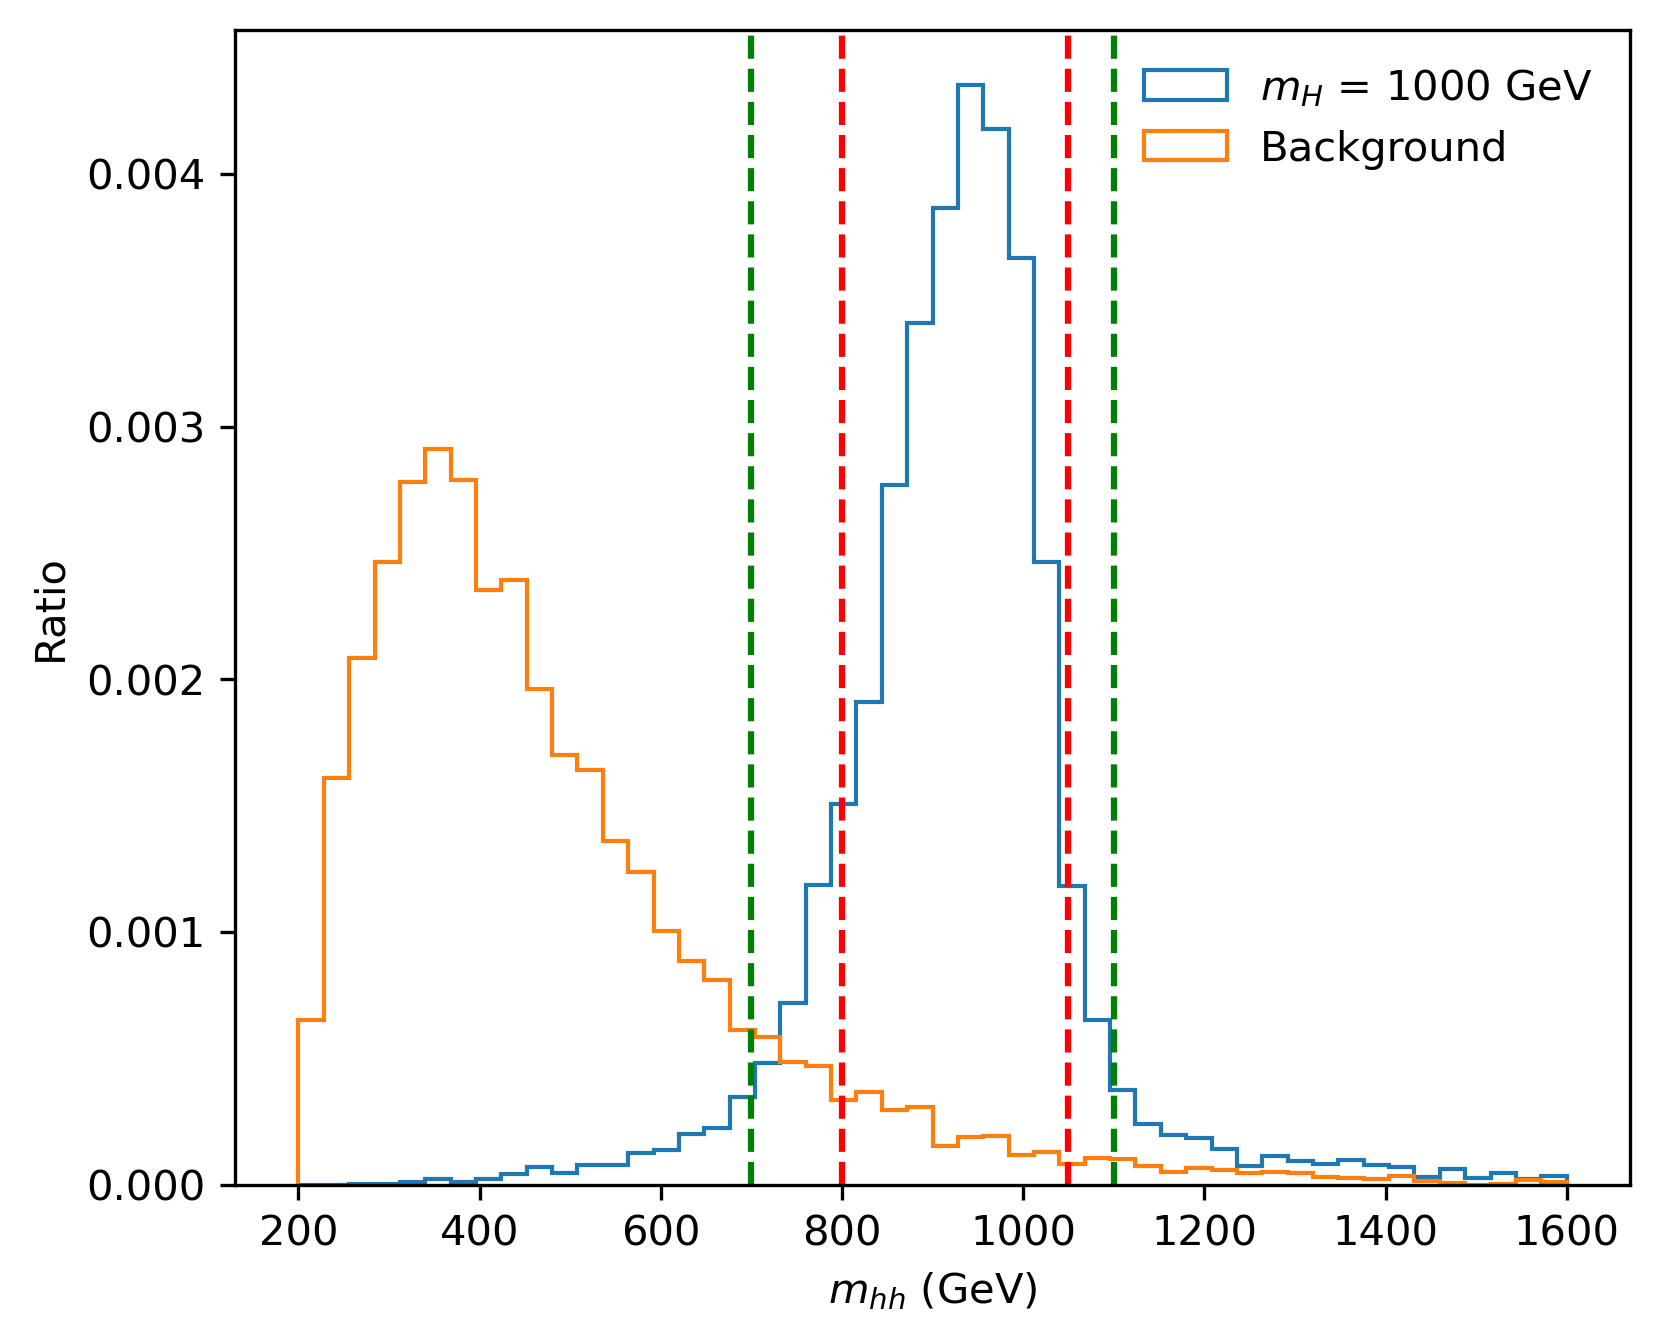
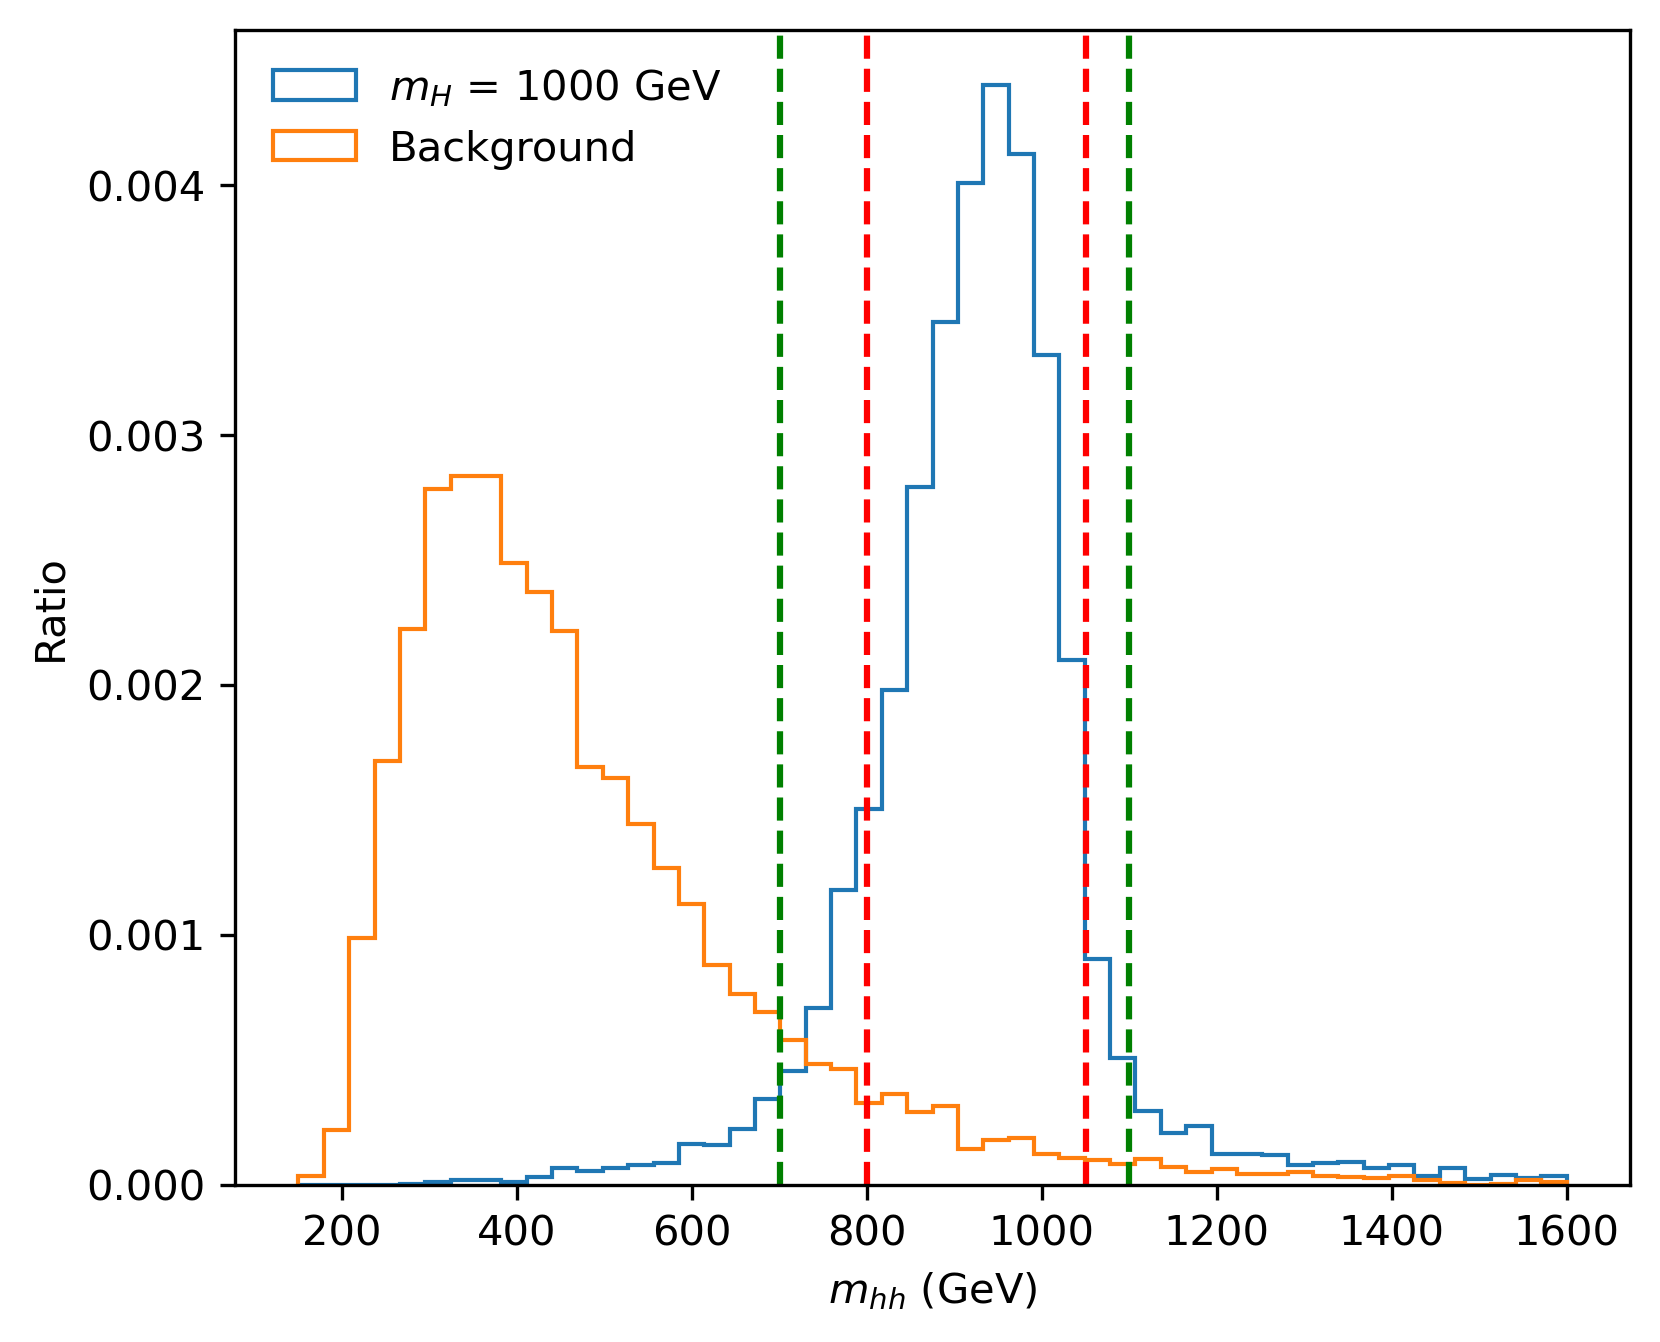
Code: Test CWoLa hunting on the samples without transverse momentum and invariant mass of Higgs candidates

diff --git a/DNN/train_CWoLa_hunting_no_sig.py b/DNN/train_CWoLa_hunting_no_sig.py
@@ -1,6 +1,6 @@
 #!/usr/bin/env python
 # coding: utf-8
-# python train_CWoLa_hunting.py
+# python train_CWoLa_hunting_no_sig.py
 
 import os
 import sys
@@ -38,9 +38,9 @@ def get_sample_size(y):
 def main():
 
     # Training sample
-    data_path = f'../Sample/DNN/CWoLa_hunting_no_signal-500GeV.npy'
-    
-    X, y = load_samples(data_path)
+    data_path = f'../Sample/DNN/CWoLa_hunting_no_signal.npy'
+    d_col = (0,3,4,7)
+    X, y = load_samples(data_path, d_col)
     X_train, X_test, y_train, y_test = train_test_split(X, y, test_size=0.10, random_state=17)
 
     train_size = get_sample_size(y_train)
@@ -51,7 +51,7 @@ def main():
     min_delta = 0.
     learning_rate = 0.0005
     batch_size = 256
-    save_model_name = f'./DNN_models/DNN_last_model_CWoLa_hunting_wo_sig_500GeV/'
+    save_model_name = f'./DNN_models/DNN_last_model_CWoLa_hunting_wo_sig_no_higgs_pt_m_1000GeV/'
 
     # 建立 DNN
     n_layers = 2
@@ -74,7 +74,7 @@ def main():
     history = model.fit(x=X_train, y=y_train, validation_split=0.2, epochs=train_epochs, batch_size=batch_size, callbacks=[early_stopping, check_point])
 
     # Training results
-    best_model_name = f'./DNN_models/DNN_best_model_CWoLa_hunting_wo_sig_500GeV/'
+    best_model_name = f'./DNN_models/DNN_best_model_CWoLa_hunting_wo_sig_no_higgs_pt_m_1000GeV/'
     if not os.path.isdir(best_model_name):
         shutil.copytree(save_model_name, best_model_name, dirs_exist_ok=True)
         print('Save to best model')
@@ -103,14 +103,14 @@ def main():
 
 
     # Testing results on true label sample
-    d_col = [10,11,12,13,15]
-    true_label_path = f'../Sample/DNN/min_dR_500GeV_test.npy'
+    d_col = [0,3,4,7,10,11,12,13,15]
+    true_label_path = f'../Sample/DNN/min_dR_1000GeV_test.npy'
     X_test, y_test = load_samples(true_label_path, delete_col=d_col)
     true_label_results = loaded_model.evaluate(x=X_test, y=y_test)
 
     if true_label_results[1] < 0.5:
         y_test = y_test[:,[1,0]]
-        true_label_results = best_model.evaluate(x=X_test, y=y_test)
+        true_label_results = loaded_model.evaluate(x=X_test, y=y_test)
     print(f'True label: Testing Loss = {true_label_results[0]:.3}, Testing Accuracy = {true_label_results[1]:.3}')
 
     # Compute AUC
@@ -133,7 +133,7 @@ def main():
                 'AUC': [AUC],
                 'ACC-true': [true_label_results[1]],
                 'AUC-true': [true_label_AUC],
-                'Sample Type': ['500 GeV: No signal'],
+                'Sample Type': ['1000 GeV: No signal, no Higgs pT, m'],
                 'time': [now],
                 }
     

diff --git a/DNN/train_CWoLa_hunting.py b/DNN/train_CWoLa_hunting.py
@@ -38,9 +38,10 @@ def get_sample_size(y):
 def main():
 
     # Training sample
-    data_path = f'../Sample/DNN/CWoLa_hunting_with_signal-500GeV.npy'
+    data_path = f'../Sample/DNN/CWoLa_hunting_with_signal.npy'
     
-    X, y = load_samples(data_path)
+    d_col = (0,3,4,7)
+    X, y = load_samples(data_path, d_col)
     X_train, X_test, y_train, y_test = train_test_split(X, y, test_size=0.10, random_state=17)
 
     train_size = get_sample_size(y_train)
@@ -51,7 +52,7 @@ def main():
     min_delta = 0.
     learning_rate = 0.0005
     batch_size = 256
-    save_model_name = f'./DNN_models/DNN_last_model_CWoLa_hunting_w_sig_500GeV/'
+    save_model_name = f'./DNN_models/DNN_last_model_CWoLa_hunting_w_sig_no_higgs_pt_m_1000GeV/'
 
     # 建立 DNN
     n_layers = 2
@@ -74,7 +75,7 @@ def main():
     history = model.fit(x=X_train, y=y_train, validation_split=0.2, epochs=train_epochs, batch_size=batch_size, callbacks=[early_stopping, check_point])
 
     # Training results
-    best_model_name = f'./DNN_models/DNN_best_model_CWoLa_hunting_w_sig_500GeV/'
+    best_model_name = f'./DNN_models/DNN_best_model_CWoLa_hunting_w_sig_no_higgs_pt_m_1000GeV/'
     if not os.path.isdir(best_model_name):
         shutil.copytree(save_model_name, best_model_name, dirs_exist_ok=True)
         print('Save to best model')
@@ -103,13 +104,13 @@ def main():
 
 
     # Testing results on true label sample
-    true_label_path = f'../Sample/DNN/min_dR_500GeV_test.npy'
-    X_test, y_test = load_samples(true_label_path, delete_col=(10,11,12,13,15))
+    true_label_path = f'../Sample/DNN/min_dR_1000GeV_test.npy'
+    X_test, y_test = load_samples(true_label_path, delete_col=(0,3,4,7,10,11,12,13,15))
     true_label_results = loaded_model.evaluate(x=X_test, y=y_test)
 
     if true_label_results[1] < 0.5:
         y_test = y_test[:,[1,0]]
-        true_label_results = best_model.evaluate(x=X_test, y=y_test)
+        true_label_results = loaded_model.evaluate(x=X_test, y=y_test)
     print(f'True label: Testing Loss = {true_label_results[0]:.3}, Testing Accuracy = {true_label_results[1]:.3}')
 
     # Compute AUC
@@ -132,7 +133,7 @@ def main():
                 'AUC': [AUC],
                 'ACC-true': [true_label_results[1]],
                 'AUC-true': [true_label_AUC],
-                'Sample Type': ['500 GeV: With signal'],
+                'Sample Type': ['1000 GeV: With signal, no Higgs pT, m'],
                 'time': [now],
                 }
     
